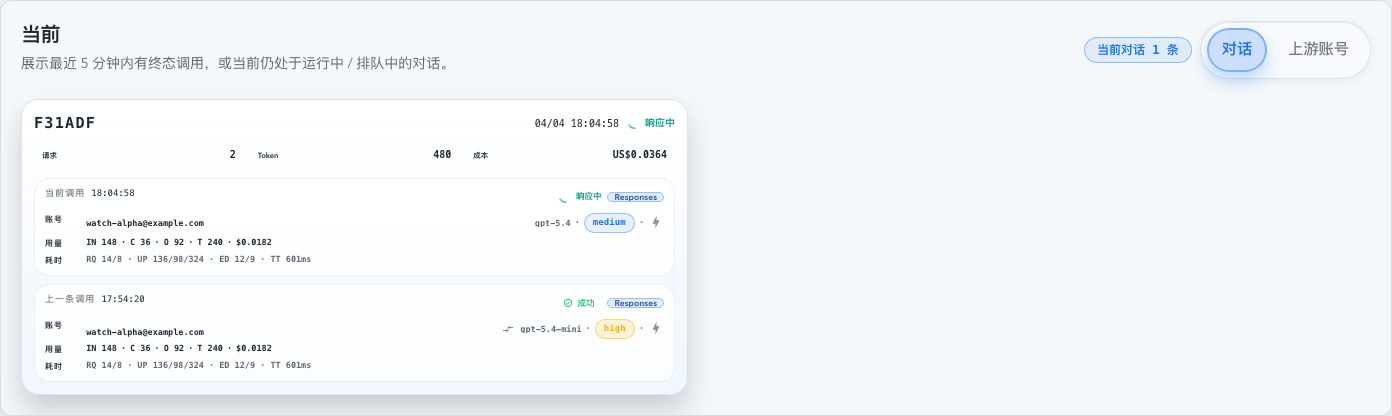
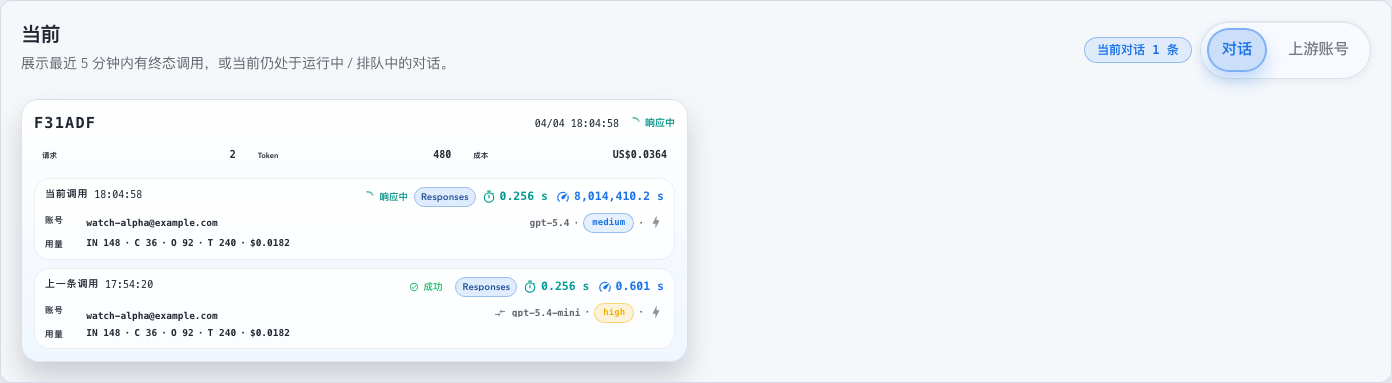
fix(web): keep dashboard phase status on one row

diff --git a/web/src/components/DashboardWorkingConversationsSection.tsx b/web/src/components/DashboardWorkingConversationsSection.tsx
@@ -1666,50 +1666,64 @@ function InvocationSlot({
       onClick={handleOpenInvocation}
       onKeyDown={handleSlotKeyDown}
     >
-      <div className="space-y-1">
-        <div className="flex min-h-5 min-w-0 items-center gap-1.5">
-          <div className="shrink-0 text-[10px] font-semibold uppercase tracking-[0.08em] text-base-content/62">
+      <div
+        data-testid="dashboard-working-conversation-slot-header"
+        className="grid min-h-5 min-w-0 grid-cols-[auto_minmax(0,1fr)] items-start gap-x-2 gap-y-1"
+      >
+        <div className="flex min-w-0 shrink-0 items-center gap-1.5">
+          <div
+            data-testid="dashboard-working-conversation-slot-label"
+            className="shrink-0 text-[10px] font-semibold uppercase tracking-[0.08em] text-base-content/62"
+          >
             {label}
           </div>
-          <div className="shrink-0 font-mono text-[10px] text-base-content/72">
+          <div
+            data-testid="dashboard-working-conversation-slot-time"
+            className="shrink-0 font-mono text-[10px] text-base-content/72"
+          >
             {occurredAtShortLabel}
           </div>
         </div>
-        <div className="flex min-w-0 flex-wrap items-center justify-end gap-1.5">
-          {invocation.livePhase ? (
-            <InvocationPhaseBadge
-              phase={invocation.livePhase}
-              appearance="inline"
-              className="text-[9.5px]"
-            />
-          ) : (
-            <Badge
-              variant={statusMeta.badgeVariant}
-              className="h-5 gap-1 border-transparent bg-base-100/12 px-1.5 py-0 text-[9.5px] font-semibold leading-none shadow-none"
-            >
-              <AppIcon
-                name={statusMeta.icon}
-                className="h-2.5 w-2.5 shrink-0"
-                aria-hidden
+        <div
+          data-testid="dashboard-working-conversation-slot-readings"
+          className="flex min-w-0 flex-wrap items-center justify-end gap-1.5"
+        >
+          <div className="flex min-w-0 items-center justify-end gap-1.5">
+            {invocation.livePhase ? (
+              <InvocationPhaseBadge
+                phase={invocation.livePhase}
+                appearance="inline"
+                className="text-[9.5px]"
               />
-              <span>{statusLabel}</span>
-            </Badge>
-          )}
-          {renderInvocationTransportBadge(
-            invocation.record,
-            "h-5 border-primary/45 bg-primary/10 px-1.5 text-[9.5px]",
-          )}
-          <div className="flex h-5 shrink-0 items-center">
-            <div className="flex items-center gap-1">
-              {renderEndpointSummary(
-                viewModel.endpointDisplay,
-                t,
-                "h-5 rounded-full border-transparent bg-base-100/10 px-1.5 py-0 text-[9.5px] font-semibold leading-none text-base-content/76 shadow-none",
-              )}
-              <DashboardImageToolIconBadge
-                imageIntentDisplay={viewModel.imageIntentDisplay}
-                t={t}
-              />
+            ) : (
+              <Badge
+                variant={statusMeta.badgeVariant}
+                className="h-5 gap-1 border-transparent bg-base-100/12 px-1.5 py-0 text-[9.5px] font-semibold leading-none shadow-none"
+              >
+                <AppIcon
+                  name={statusMeta.icon}
+                  className="h-2.5 w-2.5 shrink-0"
+                  aria-hidden
+                />
+                <span>{statusLabel}</span>
+              </Badge>
+            )}
+            {renderInvocationTransportBadge(
+              invocation.record,
+              "h-5 border-primary/45 bg-primary/10 px-1.5 text-[9.5px]",
+            )}
+            <div className="flex h-5 shrink-0 items-center">
+              <div className="flex items-center gap-1">
+                {renderEndpointSummary(
+                  viewModel.endpointDisplay,
+                  t,
+                  "h-5 rounded-full border-transparent bg-base-100/10 px-1.5 py-0 text-[9.5px] font-semibold leading-none text-base-content/76 shadow-none",
+                )}
+                <DashboardImageToolIconBadge
+                  imageIntentDisplay={viewModel.imageIntentDisplay}
+                  t={t}
+                />
+              </div>
             </div>
           </div>
           <CompactLatencyPills

diff --git a/web/src/components/DashboardWorkingConversationsSection.test.tsx b/web/src/components/DashboardWorkingConversationsSection.test.tsx
@@ -2631,7 +2631,7 @@ describe("DashboardWorkingConversationsSection", () => {
     expect(onOpenInvocation).toHaveBeenCalledTimes(2);
   });
 
-  it("opens the conversation detail from the sequence id button only", () => {
+  it("opens conversation detail from the sequence id and invocation detail from the slot", () => {
     const onOpenInvocation = vi.fn();
     const onOpenConversation = vi.fn();
     const response = createResponse([
@@ -2702,12 +2702,44 @@ describe("DashboardWorkingConversationsSection", () => {
       throw new Error("missing dashboard card");
     }
 
-    const statusLabel = card.querySelector(
+    const currentSlot = card.querySelector(
+      '[data-testid="dashboard-working-conversation-slot"][data-slot-kind="current"]',
+    );
+    if (!(currentSlot instanceof HTMLElement)) {
+      throw new Error("missing current slot");
+    }
+    const slotHeader = currentSlot.querySelector(
+      '[data-testid="dashboard-working-conversation-slot-header"]',
+    );
+    if (!(slotHeader instanceof HTMLElement)) {
+      throw new Error("missing slot header");
+    }
+    expect(slotHeader.className).toContain("grid");
+    expect(slotHeader.className).toContain("grid-cols-[auto_minmax(0,1fr)]");
+    const statusLabel = currentSlot.querySelector(
       '[data-testid="invocation-phase-badge"]',
     );
     if (!(statusLabel instanceof HTMLElement)) {
-      throw new Error(`missing phase label in card: ${card.textContent ?? ""}`);
+      throw new Error(`missing phase label in slot: ${currentSlot.textContent ?? ""}`);
     }
+    expect(
+      slotHeader
+        .querySelector('[data-testid="dashboard-working-conversation-slot-label"]')
+        ?.textContent?.trim(),
+    ).toBe("当前调用");
+    expect(
+      slotHeader.querySelector('[data-testid="invocation-phase-badge"]'),
+    ).toBe(statusLabel);
+    expect(
+      slotHeader.querySelector(
+        '[data-testid="dashboard-compact-latency-first-byte"]',
+      ),
+    ).toBeInstanceOf(HTMLElement);
+    expect(
+      slotHeader.querySelector(
+        '[data-testid="dashboard-compact-latency-response-time"]',
+      ),
+    ).toBeInstanceOf(HTMLElement);
 
     const phaseLabels = Array.from(
       card.querySelectorAll('[data-testid="invocation-phase-badge"]'),
@@ -2729,11 +2761,26 @@ describe("DashboardWorkingConversationsSection", () => {
 
     act(() => {
       statusLabel.click();
-      requestMetric.click();
-      card.click();
     });
 
-    expect(onOpenInvocation).not.toHaveBeenCalled();
+    expect(onOpenInvocation).toHaveBeenCalledWith(
+      expect.objectContaining({
+        conversationSequenceId: cards[0]?.conversationSequenceId,
+        promptCacheKey: "pck-sequence-open",
+        slotKind: "current",
+      }),
+    );
+    expect(onOpenInvocation).toHaveBeenCalledTimes(1);
+    expect(onOpenConversation).not.toHaveBeenCalled();
+
+    onOpenInvocation.mockClear();
+
+    act(() => {
+      requestMetric.click();
+      currentSlot.click();
+    });
+
+    expect(onOpenInvocation).toHaveBeenCalledTimes(1);
     expect(onOpenConversation).not.toHaveBeenCalled();
   });
 

diff --git a/web/src/components/DashboardWorkingConversationsSection.stories.tsx b/web/src/components/DashboardWorkingConversationsSection.stories.tsx
@@ -2226,6 +2226,19 @@ export const CurrentAndPrevious: Story = {
     if (!(firstByteLatency instanceof HTMLElement) || !(responseLatency instanceof HTMLElement)) {
       throw new Error("missing compact latency readings");
     }
+    const slotHeader = currentSlot.querySelector(
+      '[data-testid="dashboard-working-conversation-slot-header"]',
+    );
+    if (!(slotHeader instanceof HTMLElement)) {
+      throw new Error("missing slot header");
+    }
+    await expect(
+      slotHeader.querySelector(
+        '[data-testid="dashboard-working-conversation-slot-label"]',
+      ),
+    ).toHaveTextContent(/当前调用|Current invocation/);
+    await expect(slotHeader).toContainElement(firstByteLatency);
+    await expect(slotHeader).toContainElement(responseLatency);
     await expect(firstByteLatency.className).not.toMatch(/rounded|border|bg-/);
     await expect(responseLatency.className).not.toMatch(/rounded|border|bg-/);
     const imageBadge = currentSlot.querySelector(
@@ -2261,11 +2274,31 @@ export const RunningOnlyConversation: Story = {
     error: null,
   },
   play: async ({ canvasElement }) => {
+    const currentSlot = canvasElement.querySelector(
+      '[data-testid="dashboard-working-conversation-slot"][data-slot-kind="current"]',
+    );
+    expect(currentSlot).toBeInstanceOf(HTMLElement);
+    const currentSlotHeader = currentSlot?.querySelector(
+      '[data-testid="dashboard-working-conversation-slot-header"]',
+    );
+    expect(currentSlotHeader).toBeInstanceOf(HTMLElement);
+    expect(currentSlotHeader?.className).toContain("grid");
+    expect(currentSlotHeader?.className).toContain(
+      "grid-cols-[auto_minmax(0,1fr)]",
+    );
+    expect(
+      currentSlotHeader?.querySelector('[data-testid="invocation-phase-badge"]'),
+    ).toBeInstanceOf(HTMLElement);
+
     const phaseLabels = Array.from(
       canvasElement.querySelectorAll('[data-testid="invocation-phase-badge"]'),
     );
     expect(phaseLabels.length).toBeGreaterThanOrEqual(2);
     for (const phaseLabel of phaseLabels) {
+      const slotHeader = phaseLabel.closest(
+        '[data-testid="dashboard-working-conversation-slot-header"]',
+      );
+      expect(slotHeader).toBeInstanceOf(HTMLElement);
       expect(phaseLabel.className).toContain("inline-flex");
       expect(phaseLabel.className).not.toMatch(/\brounded/);
       expect(phaseLabel.className).not.toMatch(/\bborder/);

diff --git a/docs/specs/z6ysw-dashboard-account-activity-tabs/SPEC.md b/docs/specs/z6ysw-dashboard-account-activity-tabs/SPEC.md
@@ -225,7 +225,7 @@
 - source_type: storybook_canvas
   story_id_or_title: `dashboard-workingconversationssection--running-only-conversation`
   scenario: `inline invocation phase status`
-  evidence_note: 验证 Dashboard 对话卡片头部与当前调用槽位的运行态状态已改为 inline 图标 + 彩色文字；`响应中` 不再使用 badge 背景、边框或胶囊 padding，同时保留 endpoint、reasoning effort 等元信息 badge。
+  evidence_note: 验证 Dashboard 对话卡片头部与当前调用槽位的运行态状态已改为同一行 inline 图标 + 彩色文字；`响应中` 不再使用 badge 背景、边框或胶囊 padding，同时保留 endpoint、reasoning effort 等元信息 badge。
   image:
   PR: include
   ![Dashboard 对话卡片运行态 inline 状态证据](./assets/dashboard-working-conversation-inline-status.png)